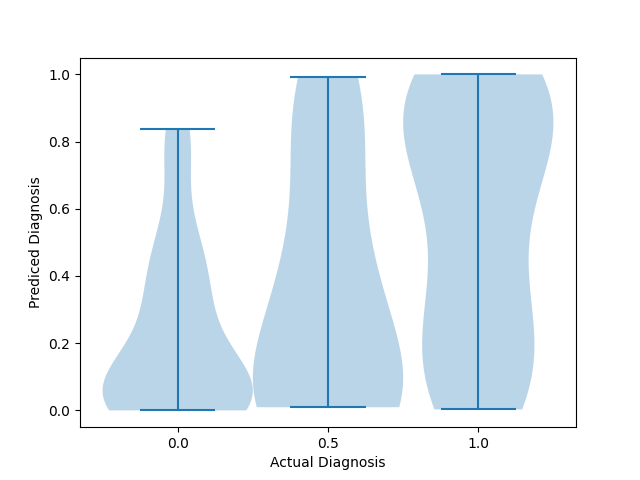
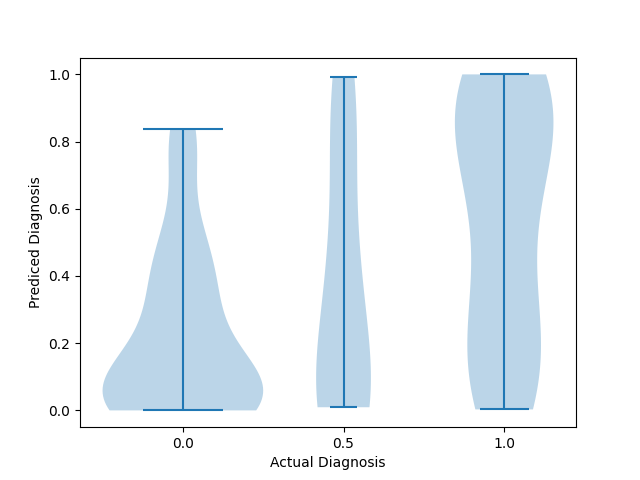
before changing code

diff --git a/crossvalidate.py b/crossvalidate.py
@@ -9,12 +9,14 @@ import json
 if __name__ == "__main__":
     hps = HyperParams.load_json('./hps_test2.json')
     pprint(hps)
-    manifest = Manifest('./manifest.json')
-    
+
+    manifest = Manifest(hps.manifest_path)
     k = hps.k_fold
+    name = hps.name
+
     results = []
     for i in range(k):
-        hps.name = f'test2_{i}i_{k}k'
+        hps.name = f'{name}_{i}i_{k}k' # change this probably
         train, test = manifest.get_k(i,k)
         model = LSTMClassifier(hps)
         losses = do_train(model,train,hps)
@@ -24,6 +26,6 @@ if __name__ == "__main__":
                         'result': result})
 
     pprint(results)
-    with open('./results_test2.json','w') as f:
+    with open(f'./results_{name}.json','w') as f:
         json.dump(results,f,indent=4)
         

diff --git a/tools/analyse_results.py b/tools/analyse_results.py
@@ -69,8 +69,8 @@ if __name__ == '__main__':
     print(np.mean(specificities))
     plt.savefig('./plots/losses.png')
     plt.close()
-
-    plt.violinplot([c00,c05,c10],[0,0.5,1])
+    lens = np.array([len(c00),len(c05),len(c10)])
+    plt.violinplot([c00,c05,c10],[0,0.5,1],widths=0.5* lens/np.max(lens))
     plt.xticks([0,0.5,1])
     plt.xlabel('Actual Diagnosis')
     plt.ylabel('Prediced Diagnosis')
